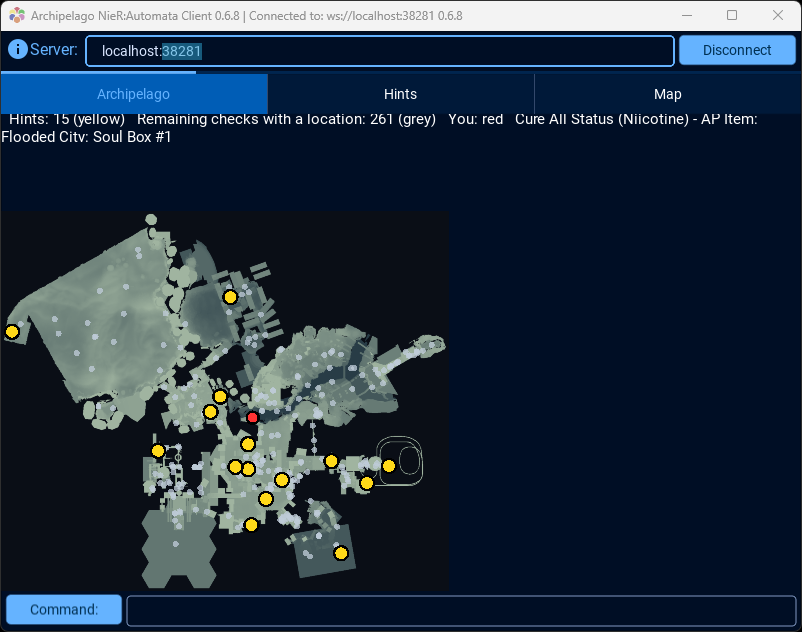
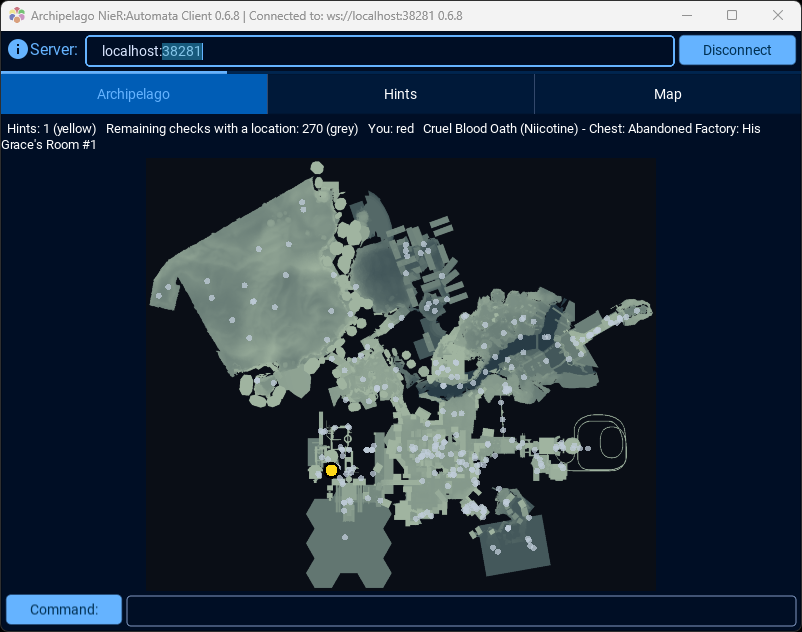
fix: carte recadree quand la vue change de taille ; AP Items de la Soul Box confirmes ; achat remise et prix route C/D verifies en jeu ; garde-fou de sauvegarde

Changed region(s): [[0.0, 0.2405, 0.8105, 0.932], [0.0, 0.1804, 0.9663, 0.2405], [0.2494, 0.0902, 0.2805, 0.1203]]

diff --git a/nier_automata/game/map_ui.py b/nier_automata/game/map_ui.py
@@ -35,9 +35,12 @@ def build_map_tab(ctx):
         def on_touch_down(self, touch):
             if touch.is_mouse_scrolling and self.parent.collide_point(*touch.pos):
                 factor = 1.15 if touch.button == "scrolldown" else 1 / 1.15
+                state["touched"] = True
                 if 0.3 <= self.scale * factor <= 12:
                     self.apply_transform(Matrix().scale(factor, factor, factor), anchor=touch.pos)
                 return True
+            if self.parent.collide_point(*touch.pos):
+                state["touched"] = True
             return super().on_touch_down(touch)
 
     class MapView(StencilView):
@@ -55,15 +58,18 @@ def build_map_tab(ctx):
     view.add_widget(scatter)
     root.add_widget(legend)
     root.add_widget(view)
-    state = {"fitted": False}
+    state = {"touched": False}
 
     def fit(*_):
-        if view.width > 10 and not state["fitted"]:
-            s = min(view.width / info.width, view.height / info.height)
-            scatter.scale = max(0.3, s)
-            scatter.pos = (view.x + (view.width - info.width * scatter.scale) / 2,
-                           view.y + (view.height - info.height * scatter.scale) / 2)
-            state["fitted"] = True
+        """Cadre la carte dans la vue tant que l'utilisateur n'a ni zoome ni deplace (la vue change de taille
+        apres sa creation : un cadrage unique laissait la carte minuscule dans un coin, vu sur capture)."""
+        if view.width > 50 and view.height > 50 and not state["touched"]:
+            s = max(0.3, min(view.width / info.width, view.height / info.height))
+            scatter.scale = s
+            scatter.pos = (view.x + (view.width - info.width * s) / 2,
+                           view.y + (view.height - info.height * s) / 2)
+
+    view.bind(size=fit, pos=fit)
 
     def to_canvas(m):
         px, py = info.to_pixel(m.x, m.z)

diff --git a/tools/save_guard.py b/tools/save_guard.py
@@ -1,0 +1,17 @@
+"""Garde-fou : compare la sauvegarde du joueur a la copie de reference et la restaure si elle a change.
+    python tools/save_guard.py [check|restore]"""
+import hashlib
+import os
+import shutil
+import sys
+
+D = os.path.expandvars(r"%USERPROFILE%\Documents\My Games\NieR_Automata")
+B = os.path.expandvars(r"%LOCALAPPDATA%\NierAutomataAP\backups\manuel_avant_fin_E")
+h = lambda p: hashlib.md5(open(p, "rb").read()).hexdigest()
+changed = [f for f in ("SlotData_0.dat", "GameData.dat") if h(os.path.join(D, f)) != h(os.path.join(B, f))]
+if changed and (len(sys.argv) < 2 or sys.argv[1] == "restore"):
+    for f in changed:
+        shutil.copy2(os.path.join(B, f), os.path.join(D, f))
+    print("SAUVEGARDE MODIFIEE -> restauree :", changed)
+else:
+    print("sauvegarde modifiee :" if changed else "sauvegarde intacte", changed or "")
